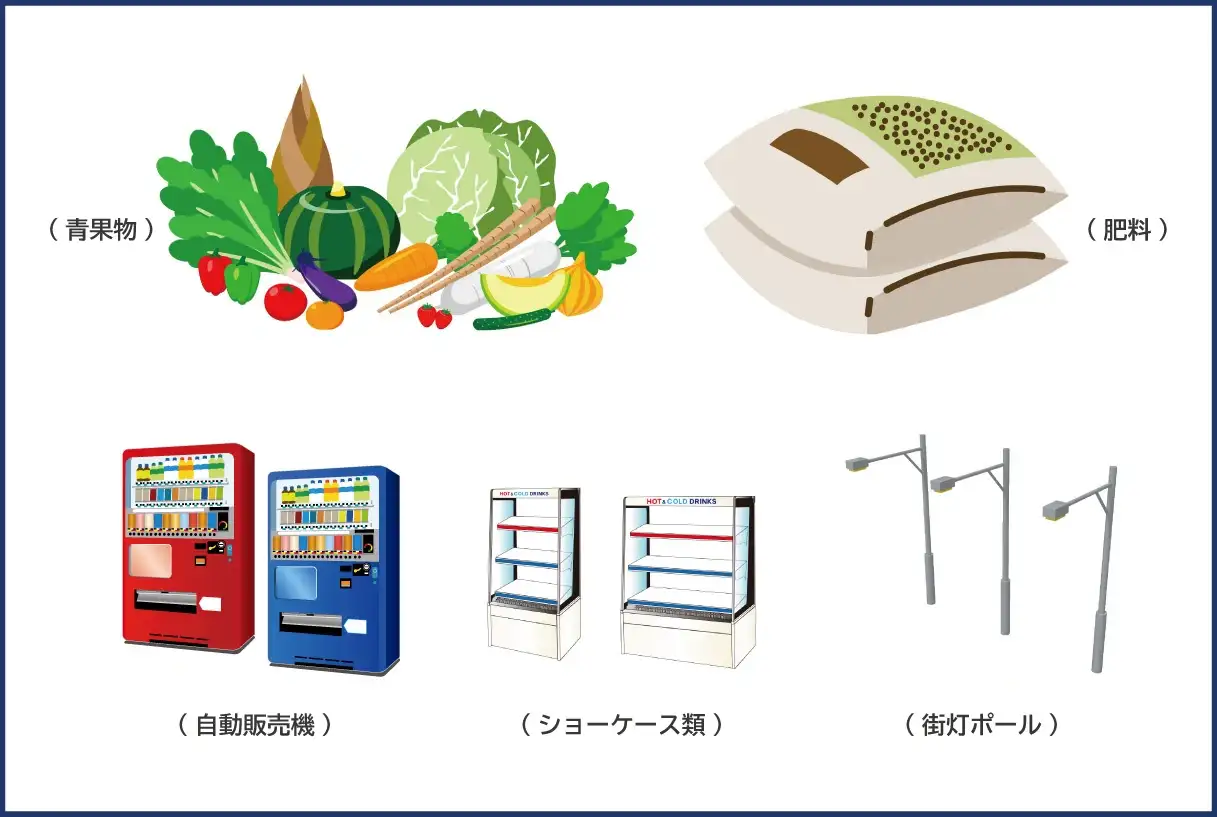
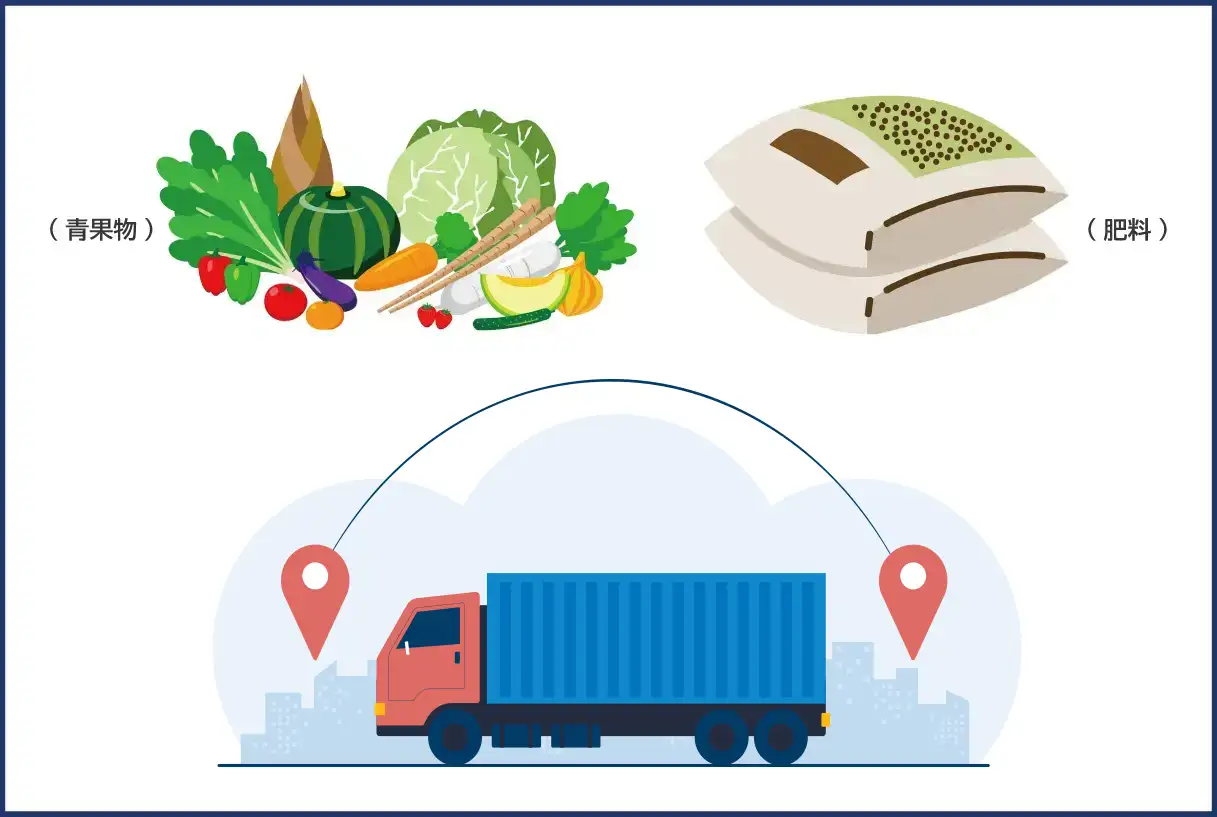
修正後デモサイトアップ

diff --git a/src/components/works/CarVariation.tsx b/src/components/works/CarVariation.tsx
@@ -15,8 +15,8 @@ import ImageVariation02a from '@/assets/images/components/works/Variation02a.web
 import ImageVariation02b from '@/assets/images/components/works/Variation02b.webp';
 import ImageVariation03a from '@/assets/images/components/works/Variation03a.webp';
 import ImageVariation03b from '@/assets/images/components/works/Variation03b.webp';
-import ImageVariation04a from '@/assets/images/components/works/Variation04a.webp';
-import ImageVariation04b from '@/assets/images/components/works/Variation04b.webp';
+// import ImageVariation04a from '@/assets/images/components/works/Variation04a.webp';
+// import ImageVariation04b from '@/assets/images/components/works/Variation04b.webp';
 const CarVariation = () => {
   const { ref, isVisible } = useScrollTrigger<HTMLDivElement>();
   return (
@@ -58,10 +58,10 @@ const CarVariation = () => {
           ]}
         />
         <VariationContents
-          heading="冷凍車"
+          heading="冷蔵車"
           images={[
-            { src: ImageVariation02a, alt: '冷凍車1' },
-            { src: ImageVariation02b, alt: '冷凍車2' },
+            { src: ImageVariation02a, alt: '冷蔵車1' },
+            { src: ImageVariation02b, alt: '冷蔵車2' },
           ]}
           specs={[
             {
@@ -120,7 +120,7 @@ const CarVariation = () => {
             },
           ]}
         />
-        <VariationContents
+        {/* <VariationContents
           heading="家畜車"
           images={[
             { src: ImageVariation04a, alt: '家畜車1' },
@@ -152,7 +152,7 @@ const CarVariation = () => {
               ],
             },
           ]}
-        />
+        /> */}
       </ul>
     </section>
   );

diff --git a/src/components/company/GreetingMessage.tsx b/src/components/company/GreetingMessage.tsx
@@ -1,0 +1,32 @@
+/* =======================================
+ * 会社概要 社長挨拶
+ * URL:src/components/company/GreetingMessage.tsx
+ * Referenced in: /company/page.tsx
+ * Created: 2025-04-28
+ * Last updated: 2025-04-28
+ * ======================================= */
+
+import styles from '@/styles/components/company/GreetingMessage.module.scss';
+const GreetingMessage = () => {
+  return (
+    <section className={styles.containerGreetingMessage}>
+      <article>
+        <h3>社長挨拶</h3>
+        <p>
+          熊本県の物流市場は、半導体関連企業の集積に伴い、輸送需要の増加が見込まれています。
+          <br />
+          物流企業が県内に倉庫や営業所を設ける動きが広がっており、県も物流網の整備に力を入れています。
+          <br />
+          <br />
+          当社では、物流業におけるDXに今後積極的に取り組み、業務効率化とともに熊本から未来への旬を届ける物流業への変革を遂げるべく邁進いたします。
+          <br />
+          今後より一層のご愛顧のほどよろしくお願い申し上げます。
+          <span>
+            代表取締役社長<em>渡邉 直美</em>
+          </span>
+        </p>
+      </article>
+    </section>
+  );
+};
+export default GreetingMessage;

diff --git a/src/components/top/ContainerHead.tsx b/src/components/top/ContainerHead.tsx
@@ -1,0 +1,44 @@
+/* =======================================
+ * TOP HEADイメージ
+ * URL: src/components/top/ContainerHead.tsx
+ * Referenced in: /app/page.tsx
+ * Created: 2025-04-28
+ * Last updated: 2025-04-28
+ * ======================================= */
+
+'use client';
+import slide01 from '@/assets/images/components/top/containerSlide/slide01.webp';
+import Image from 'next/image';
+import styles from '@/styles/components/top/ContainerHead.module.scss';
+import { useScrollTrigger } from '@/hooks/useScrollTrigger';
+
+const ContainerHead = () => {
+  const { ref, isVisible } = useScrollTrigger();
+  return (
+    <section
+      className={`${styles.containerHead} ${styles.slideIn} ${
+        isVisible ? styles['is-active'] : ''
+      }`}
+      ref={ref}
+    >
+      <Image
+        src={slide01}
+        alt="熊本の心と旬を運ぶ"
+        className={styles.itemSlideImage}
+      />
+      <article>
+        <p
+          className={`${styles.slideIn} ${
+            isVisible ? styles['is-active'] : ''
+          }`}
+        >
+          物流を通し<i>人</i>と<i>人</i>との懸け橋に。熊本と全国を<i>結ぶ</i>。
+          <br />
+          それが私たち <em>九州運輸</em>。
+        </p>
+      </article>
+    </section>
+  );
+};
+
+export default ContainerHead;

diff --git a/src/styles/components/company/GreetingMessage.module.scss b/src/styles/components/company/GreetingMessage.module.scss
@@ -1,0 +1,50 @@
+@use "variable" as *;
+@use "svg" as *;
+
+.containerGreetingMessage {
+    display: flex;
+    flex-direction: column;
+    align-items: center;
+    padding: 5em 3em 3em;
+    background-color: #ebebeb;
+    @include sp {
+        padding: 10vw 4vw;
+    }
+    article {
+        max-width: $articleMaxWidth;
+        display: flex;
+        flex-direction: column;
+        h3 {
+            align-self: center;
+            font-size: FZ(25);
+            font-weight: 600;
+            letter-spacing: 0.08em;
+            color: $fontBlack;
+        }
+        p {
+            font-size: FZ(16);
+            @include Serif;
+            letter-spacing: 0.08em;
+            line-height: 1.8em;
+            max-width: 70rem;
+            align-self: center;
+            margin-top: 2em;
+            @include sp {
+                font-size: FZ(14);
+            }
+            span {
+                display: flex;
+                justify-content: flex-end;
+                align-items: center;
+                text-align: right;
+                margin-top: 1.4em;
+                font-size: 0.9em;
+                em {
+                    margin-left: 0.5em;
+                    font-size: 1.8em;
+                    @include Serif;
+                }
+            }
+        }
+    }
+}

diff --git a/src/styles/components/top/ContainerHead.module.scss b/src/styles/components/top/ContainerHead.module.scss
@@ -1,0 +1,45 @@
+@use "variable" as *;
+@use "svg" as *;
+
+.containerHead {
+    font-size: inherit;
+    @include pc {
+        clip-path: inset(0 0 0 100%);
+        transition: 0.8s ease-out;
+        &.is-active {
+            clip-path: inset(0);
+        }
+    }
+    article {
+        margin-inline: auto;
+        display: flex;
+        padding: 2em 2em 14em;
+        justify-content: flex-end;
+        @include sp {
+            padding: 4vw 4vw 24vw;
+        }
+        p {
+            @include Serif;
+            font-size: FZ(18);
+            text-align: right;
+            font-weight: 600;
+            letter-spacing: 0.12em;
+            line-height: 2.4em;
+            @include pc {
+                transition: 0.5s ease-out;
+                translate: 100%;
+                opacity: 0;
+                &.is-active {
+                    translate: 0;
+                    opacity: 1;
+                }
+            }
+            i {
+                font-size: 1.3em;
+            }
+            em {
+                font-size: 1.6em;
+            }
+        }
+    }
+}

diff --git a/src/app/works/page.tsx b/src/app/works/page.tsx
@@ -80,7 +80,7 @@ export default function Works() {
           image={ContentsImage05}
           alt="一般貨物自動車運送事業"
           h3Title="一般貨物自動車運送事業"
-          description="熊本各地域、並びに九州各県より東北、関東、関西、中京、中国、四国方面に輸送致します。主に青果物、一般荷物、プラスチック製品の原料、家畜の飼料、農作物の肥料、自動販売機、家畜(牛)その他各種貨物。"
+          description="熊本各地域、並びに九州各県より東北、関東、関西、中京、中国、四国方面に輸送致します。主に青果物、一般荷物、プラスチック製品の原料、家畜の飼料、農作物の肥料、自動販売機、その他各種貨物。"
           linkText="ご依頼はこちら"
           linkHref="/contact/"
           className={boxStyles.moveLeft}

diff --git a/src/app/company/page.tsx b/src/app/company/page.tsx
@@ -9,12 +9,14 @@ import MovePageTop from '@/components/common/MovePageTop';
 import PageTitle from '@/components/common/PageTitle';
 import Link from 'next/link';
 import styles from '@/styles/Company.module.scss';
-import CompanyDetails from '@/components/CompanyDetails';
+import CompanyDetails from '@/components/company/CompanyDetails';
+import GreetingMessage from '@/components/company/GreetingMessage';
 
 export default function Recruit() {
   return (
     <main>
       <PageTitle breadcrumb="company" titleEn="Company" titleJp="会社概要" />
+      <GreetingMessage />
       <nav className={styles.navList}>
         <Link href="#ContainerSdgs" className={styles.itemLink}>
           我が社とSDGs

diff --git a/src/app/page.tsx b/src/app/page.tsx
@@ -6,14 +6,16 @@
  * ======================================= */
 
 import ContainerSdgs from '@/components/common/ContainerSdgs';
+import ContainerHead from '@/components/top/ContainerHead';
 import ContainerIndex from '@/components/top/ContainerIndex';
 import ContainerRecruit from '@/components/top/ContainerRecruit';
-import ContainerSlide from '@/components/top/ContainerSlide';
+// import ContainerSlide from '@/components/top/ContainerSlide';
 
 export default function Home() {
   return (
     <main>
-      <ContainerSlide />
+      <ContainerHead />
+      {/* <ContainerSlide /> */}
       <ContainerIndex />
       <ContainerSdgs title="九州運輸のSDGs" />
       <ContainerRecruit />

diff --git a/src/components/company/CompanyDetails.tsx b/src/components/company/CompanyDetails.tsx
@@ -6,7 +6,7 @@
  * ======================================= */
 'use client';
 import { useScrollTrigger } from '@/hooks/useScrollTrigger';
-import styles from '@/styles/components/CompanyDetails.module.scss';
+import styles from '@/styles/components/company/CompanyDetails.module.scss';
 
 const CompanyDetails = () => {
   const triggerA = useScrollTrigger<HTMLDivElement>();
@@ -99,7 +99,7 @@ const CompanyDetails = () => {
           <div>
             <dt>車両台数総数</dt>
             <dd>
-              <span>45台 トレーラー2台</span>
+              <span>45台</span>
               <span>10t車25台・4t車13台・2t車5台</span>
             </dd>
           </div>

diff --git a/src/styles/components/company/CompanyDetails.module.scss b/src/styles/components/company/CompanyDetails.module.scss
@@ -1,6 +1,6 @@
-@use "../variable" as *;
-@use "../svg" as *;
-@use "../mixin" as *;
+@use "variable" as *;
+@use "svg" as *;
+@use "mixin" as *;
 
 .itemH3 {
     font-size: FZ(25);
@@ -14,7 +14,7 @@
     flex-direction: column;
     align-items: center;
     padding: 2em 3em;
-    background: url(../../assets/images/company-image.webp) no-repeat center
+    background: url(../../../assets/images/company-image.webp) no-repeat center
         center / cover;
     @include sp {
         padding: 6vw 4vw;
